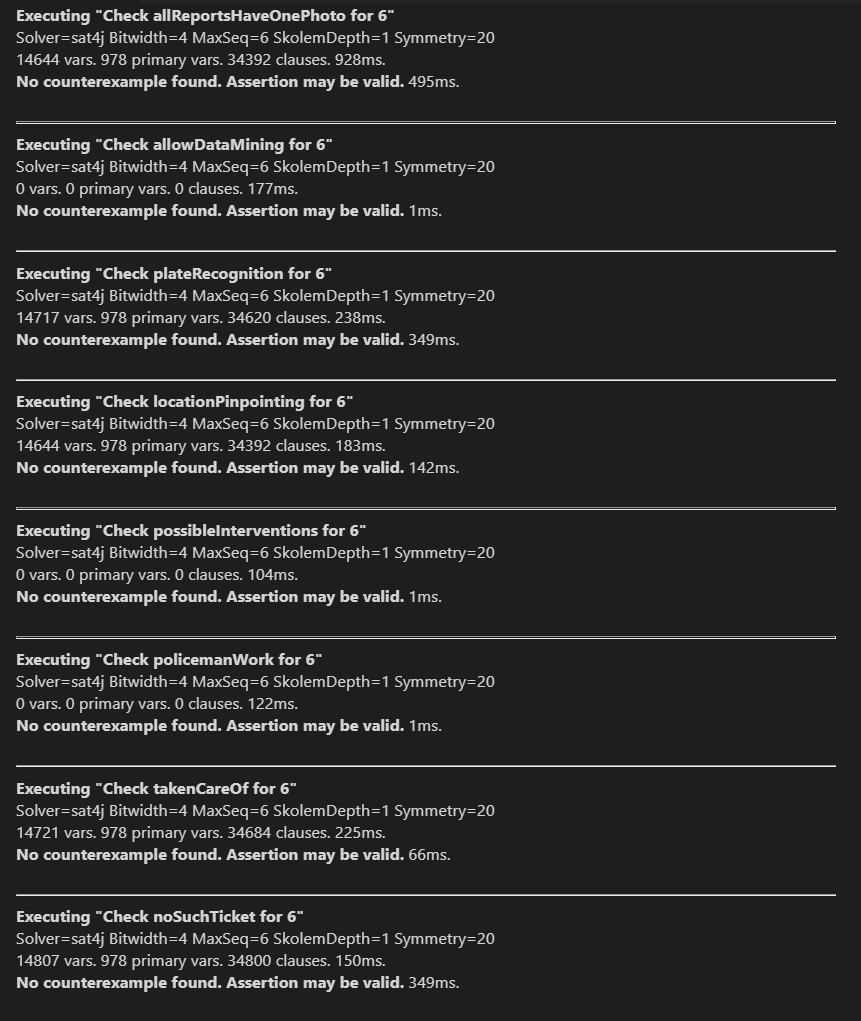
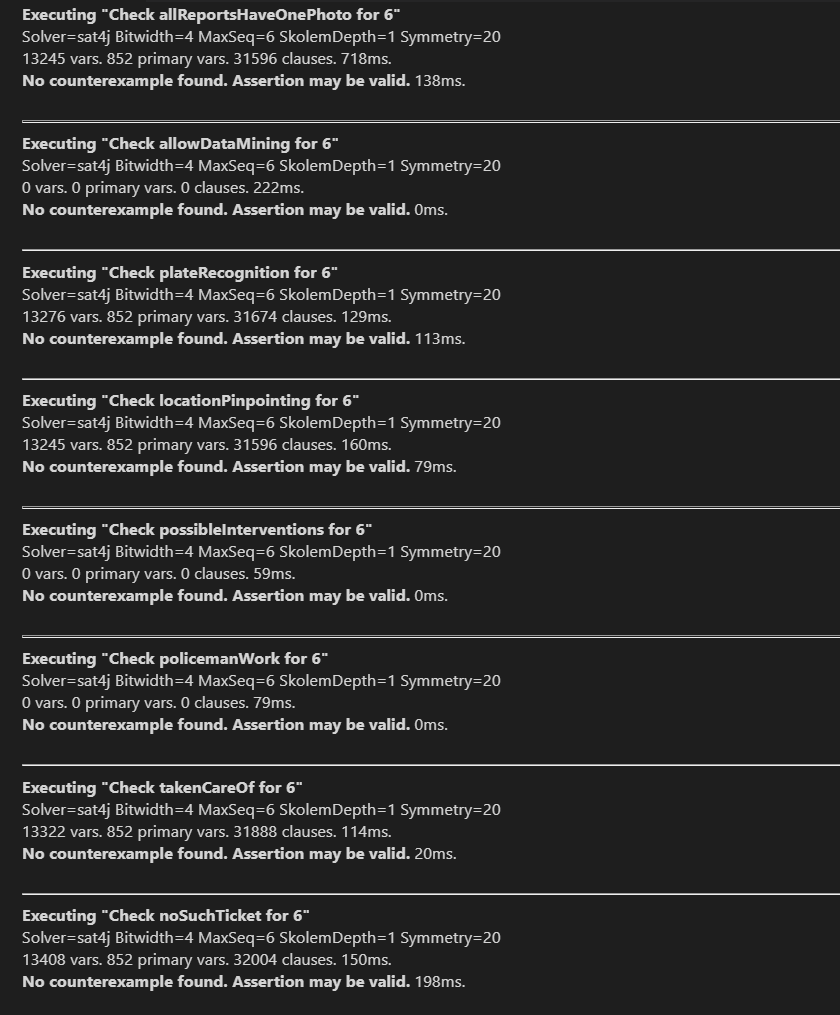
RASD update following alloy modifications

Changed region(s): [[0.0, 0.2443, 0.9905, 0.9773], [0.0, 0.0, 0.9595, 0.2138]]

diff --git a/RASD/Files/alloy.tex b/RASD/Files/alloy.tex
@@ -15,19 +15,19 @@ While, on the other hand, cross-database interactions have not been modeled and 
 \newpage
 \subsection{Signatures}
 \begin{figure}[h!]
-	\includegraphics[scale=0.65 ]{Images/Signatures_1-1}
+	\includegraphics[scale=0.85 ]{Images/Signatures_1-2}
 	\caption{Alloy model signatures}
 \end{figure}
 \newpage
 \subsection{Facts}
 \begin{figure}[h!]
-	\includegraphics[scale=0.55]{Images/Facts_1-1}
+	\includegraphics[scale=0.58]{Images/Facts_1-2}
 	\caption{Alloy model facts}
 \end{figure}
 \newpage
 \subsection{Assertions and world}
 \begin{figure}[h!]
-	\includegraphics[scale=0.60]{Images/Assertions_and_world_1-1}
+	\includegraphics[scale=0.70]{Images/Assertions_and_world_1-2}
 	\caption{Alloy model assertions and world declaration}
 \end{figure}
 \newpage
